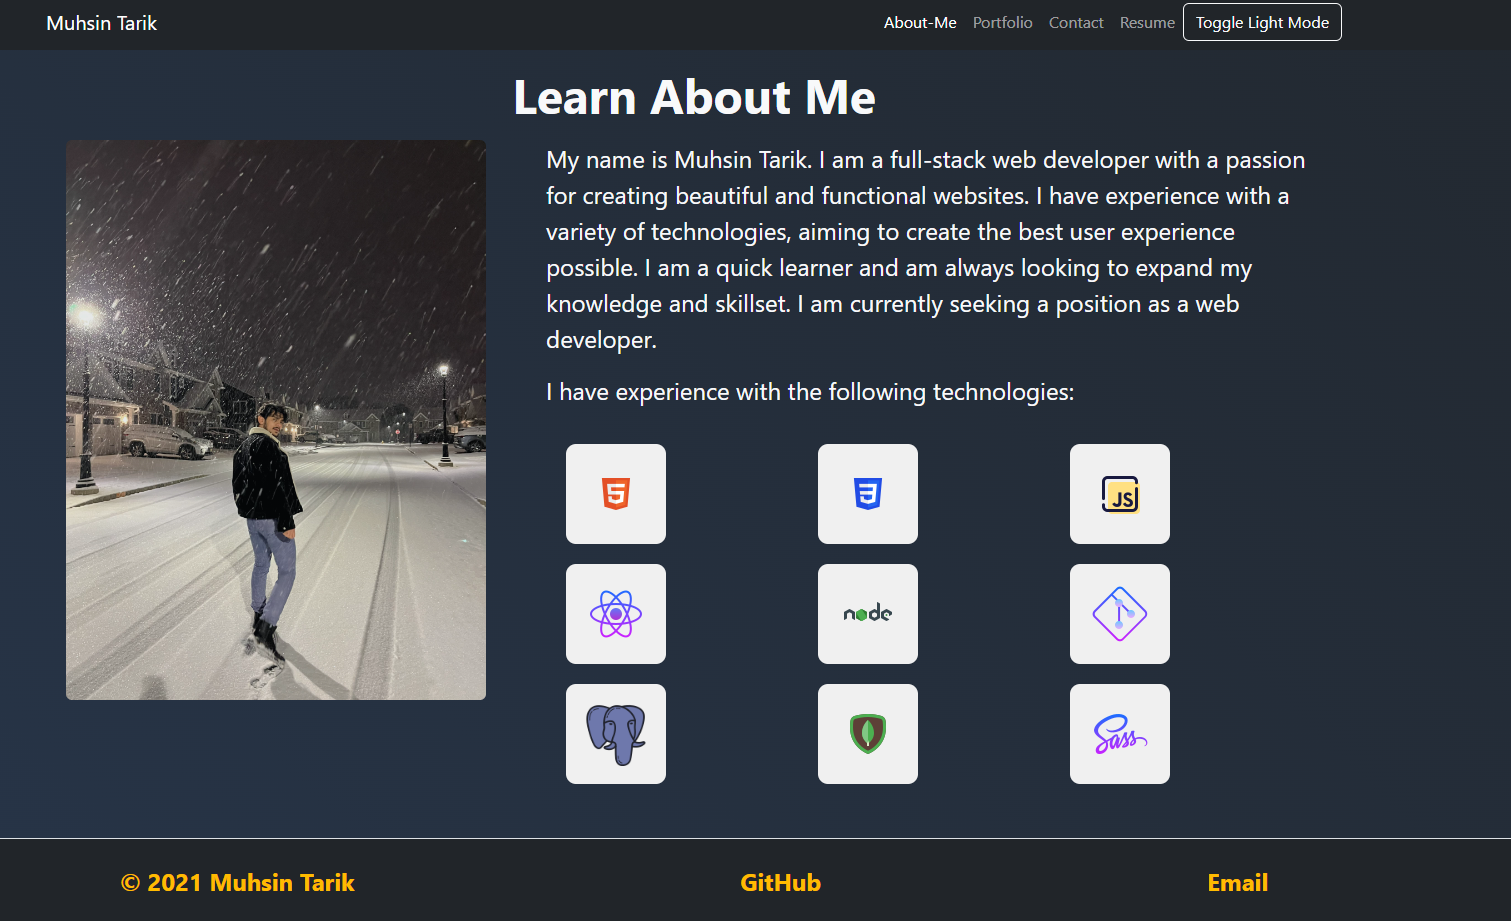
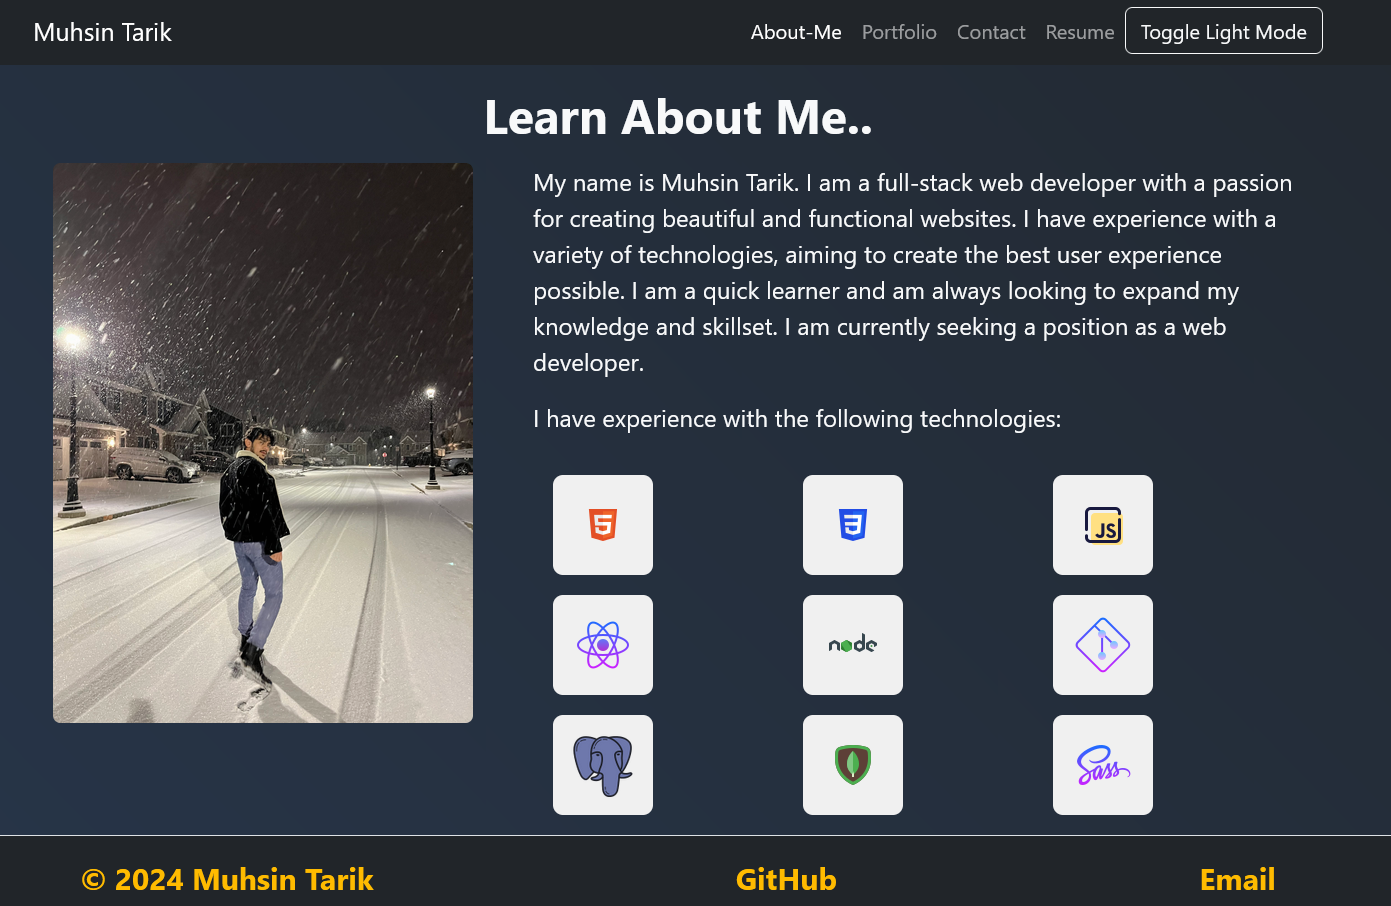
commit a typo has been fixed

diff --git a/react_portfolio/src/Components/Footer/index.jsx b/react_portfolio/src/Components/Footer/index.jsx
@@ -10,7 +10,7 @@ function Footer() {
     return (
         <footer className={`${theme === 'light' ? 'bg-light text-dark' : 'bg-dark text-light'} text-center  `}>
             <div className='d-flex justify-content-evenly links'>
-                <p>© 2021 Muhsin Tarik</p>
+                <p>© 2024 Muhsin Tarik</p>
 
 
                 <a href="https://github.com/tarikorg">GitHub</a>
